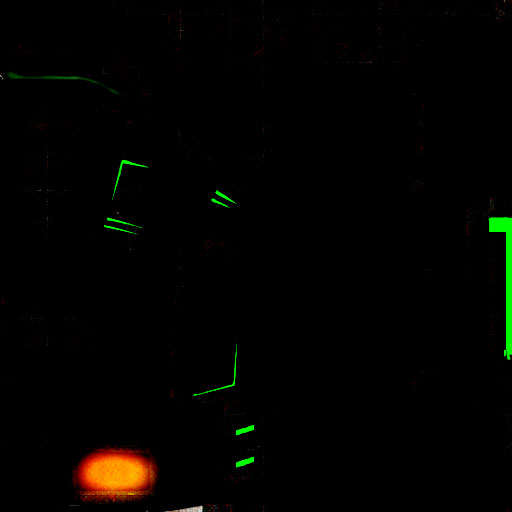
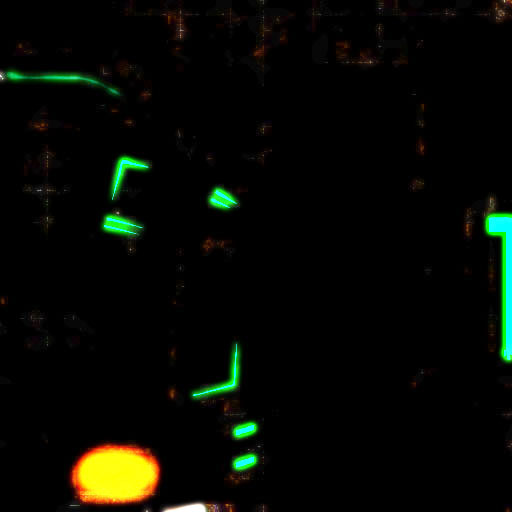
bloom

diff --git a/source/contrib/ArticulatedModel/demo.cpp b/source/contrib/ArticulatedModel/demo.cpp
@@ -60,6 +60,7 @@ protected:
 public:
     SkyRef                      sky;
 
+    LightingParameters          skyParameters;
     LightingRef                 lighting;
 
     Array<EntityRef>            entityArray;
@@ -76,6 +77,9 @@ class Demo : public GApplet {
 private:
 
     void generateShadowMap(const GLight& light, const Array<PosedModelRef>& shadowCaster);
+
+    ShaderRef                   bloomShader, bloomFilterShader;
+    TextureRef                  screenImage, bloomMap;
 
     TextureRef                  shadowMap;
     Matrix4                     lightMVP;
@@ -114,6 +118,78 @@ Demo::Demo(App* _app) : GApplet(_app), app(_app) {
             
     }
 
+    if (GLCaps::supports_GL_EXT_texture_rectangle() && Shader::supportsPixelShaders()) {
+        screenImage = Texture::createEmpty(app->renderDevice->width(), app->renderDevice->height(), 
+            "Copied Screen Image", TextureFormat::RGB8,
+            Texture::CLAMP, Texture::BILINEAR_NO_MIPMAP, Texture::DIM_2D_RECT);
+        bloomMap = Texture::createEmpty(app->renderDevice->width()/10, app->renderDevice->height()/10, 
+            "Bloom map", TextureFormat::RGB8,
+            Texture::CLAMP, Texture::BILINEAR_NO_MIPMAP, Texture::DIM_2D_RECT);
+
+        // Create a filtered, thresholded low-resolution version of an image.
+        bloomFilterShader = Shader::fromStrings("",         
+            STR(
+            uniform sampler2DRect screenImage;
+
+            // Only allows bright pixels to pass
+            vec4 threshold(vec4 v) {
+                const float T = 0.95;
+                return 
+                    ((v.r >= T) ||
+                     (v.g >= T) ||
+                     (v.b >= T)) ? v : vec4(0,0,0,0);
+            }
+
+            void main(void) {
+                // The center pixel
+                vec2 p = gl_TexCoord[0].xy - vec2(1, 1);
+
+                vec4 color = vec4(0,0,0,0);
+
+                // Blur while downsampling
+                for (int dx = -10; dx <= 10; dx += 4) {
+                    for (int dy = -10; dy <= 10; dy += 4) {
+                        color += threshold(texture2DRect(screenImage, p + vec2(dx, dy)));
+                    }
+                }
+
+                gl_FragColor = color / 36.0;
+            }
+            ));
+        bloomFilterShader->args.set("screenImage", screenImage);
+
+        // Combine the bloom map with the screen image
+        bloomShader = Shader::fromStrings("",
+            STR(
+            uniform sampler2DRect screenImage;
+            uniform sampler2DRect bloomMap;
+
+            void main(void) {
+                // The center pixel
+                vec2 p = gl_TexCoord[0].xy;
+        
+                gl_FragColor = 
+                    // Brighten the screen image by 1/0.75, since we darkened the 
+                    // scene when rendering to avoid saturation.
+                    texture2DRect(screenImage, gl_TexCoord[0].xy * 10.0) * 1.34 + 
+
+                    // Add the bloom
+                    (texture2DRect(bloomMap, p) +
+                     (texture2DRect(bloomMap, p + vec2(-2,0)) + 
+                      texture2DRect(bloomMap, p + vec2(2,0))) * 0.5 + 
+                     (texture2DRect(bloomMap, p + vec2(0,-2)) + 
+                      texture2DRect(bloomMap, p + vec2(0,2))) * 0.5 + 
+                     texture2DRect(bloomMap, p + vec2(0,-1)) + 
+                     texture2DRect(bloomMap, p + vec2(-1,0)) + 
+                     texture2DRect(bloomMap, p + vec2(1,0)) + 
+                     texture2DRect(bloomMap, p + vec2(0,1))) / 4.0;
+            }
+            ));
+
+        bloomShader->args.set("screenImage", screenImage);
+        bloomShader->args.set("bloomMap", bloomMap);
+
+    }
 }
 
 
@@ -194,7 +270,9 @@ void Demo::doGraphics() {
 
     // Pose all
     Array<PosedModelRef> posedModels;
+
     for (int e = 0; e < app->entityArray.size(); ++e) {
+        /*
         static RealTime t0 = System::time();
         RealTime t = (System::time() - t0) * 10;
         app->entityArray[e]->pose.cframe.set("m_rotor", 
@@ -203,6 +281,7 @@ void Demo::doGraphics() {
         app->entityArray[e]->pose.cframe.set("t_rotor",
             CoordinateFrame(Matrix3::fromAxisAngle(Vector3::unitX(), t*2),
                             Vector3::zero()));
+                            */
 
         app->entityArray[e]->model->pose(posedModels, app->entityArray[e]->cframe, app->entityArray[e]->pose);
     }
@@ -230,14 +309,13 @@ void Demo::doGraphics() {
     app->renderDevice->setProjectionAndCameraMatrix(app->debugCamera);
     app->renderDevice->setObjectToWorldMatrix(CoordinateFrame());
 
-    LightingParameters lighting(G3D::toSeconds(2, 00, 00, PM));
 
     // Cyan background
     app->renderDevice->setColorClearValue(Color3(.1, .5, 1));
 
     app->renderDevice->clear(app->sky.notNull(), true, true);
     if (app->sky.notNull()) {
-        app->sky->render(lighting);
+        app->sky->render(app->skyParameters);
     }
 
     app->renderDevice->pushState();
@@ -263,9 +341,29 @@ void Demo::doGraphics() {
 
     app->renderDevice->popState();
 
+    // Add bloom
+    if (bloomMap.notNull()) {
+        app->renderDevice->push2D();
+            // Undo renderdevice's 0.35 translation
+            app->renderDevice->setCameraToWorldMatrix(CoordinateFrame(Matrix3::identity(), Vector3(0, 0, 0.0)));
+            Rect2D rect = Rect2D::xywh(0, 0, app->renderDevice->width(), app->renderDevice->height());
+            Rect2D smallRect = Rect2D::xywh(0, 0, bloomMap->texelWidth(), bloomMap->texelHeight());
+            screenImage->copyFromScreen(rect);
+
+            // Shrink and filter
+            app->renderDevice->setShader(bloomFilterShader);
+            Draw::rect2D(smallRect, app->renderDevice, Color3::white(), rect);
+            bloomMap->copyFromScreen(smallRect);
+
+            app->renderDevice->setShader(bloomShader);
+//            app->renderDevice->setShader(NULL);
+//            app->renderDevice->setTexture(0, bloomMap);
+            Draw::rect2D(rect, app->renderDevice, Color3::white(), smallRect);
+        app->renderDevice->pop2D();
+    }
 
     if (app->sky.notNull()) {
-        app->sky->renderLensFlare(lighting);
+        app->sky->renderLensFlare(app->skyParameters);
     }
 
     app->debugPrintf("%s Profile %s\n", toString(ArticulatedModel::profile()),
@@ -309,7 +407,7 @@ void App::main() {
             material.transmit = Color3::black();
             material.specular = Texture::fromFile(path + "specular.jpg");
             material.reflect = Color3::black();
-            material.specularExponent = Color3::white() * 60;
+            material.specularExponent = Color3::white() * 40;
         }
 
         {
@@ -333,10 +431,10 @@ void App::main() {
 
         SuperShader::Material& material = model->partArray[0].triListArray[0].material;
         model->partArray[0].triListArray[0].twoSided = true;
-        material.diffuse = Color3::yellow() * .7;
+        material.diffuse = Color3::yellow() * .5;
         material.transmit = Color3(.5,.3,.3);
         material.reflect = Color3::white() * .1;
-        material.specular = Color3::white() * .8;
+        material.specular = Color3::white() * .7;
         material.specularExponent = Color3::white() * 40;
         model->updateAll();
 
@@ -371,8 +469,8 @@ void App::main() {
         material.diffuse = Color3::fromARGB(0xF28900);
         material.transmit = Color3::black();
         material.reflect = Color3::black();
-        material.specular = Color3::white() * .3;
-        material.specularExponent = Color3::white() * 60;
+        material.specular = Color3::white() * .05;
+        material.specularExponent = Color3::white() * 10;
         model->updateAll();
 
         entityArray.append(Entity::create(model, CoordinateFrame(rot180, Vector3(x,0,0))));
@@ -630,26 +728,35 @@ void App::main() {
 
     lighting = Lighting::create();
     {
-        LightingParameters params(G3D::toSeconds(12, 00, 00, PM));
+        // TODO: move the lightScale processing into doGraphics
+
+        bool useBloom = GLCaps::supports_GL_EXT_texture_rectangle() && Shader::supportsPixelShaders();
+
+        double lightScale = useBloom ? 0.75 : 0;
+
+        skyParameters = LightingParameters(G3D::toSeconds(12, 00, 00, PM));
     
+        skyParameters.skyAmbient = Color3::white() * lightScale;
+        skyParameters.diffuseAmbient *= lightScale;
+
         if (sky.notNull()) {
             //lighting->environmentMap.constant = lighting.skyAmbient;
             lighting->environmentMap = sky->getEnvironmentMap();
-            lighting->environmentMapColor = params.skyAmbient;
+            lighting->environmentMapColor = skyParameters.skyAmbient;
         } else {
             lighting->environmentMapColor = Color3::black();
         }
 
-        lighting->ambientTop = Color3(.7, .7, 1) * params.diffuseAmbient;
-        lighting->ambientBottom = Color3::brown() * params.diffuseAmbient;
+        lighting->ambientTop = Color3(.7, .7, 1) * skyParameters.diffuseAmbient;
+        lighting->ambientBottom = Color3::brown() * skyParameters.diffuseAmbient;
 
         lighting->lightArray.clear();
 
         lighting->shadowedLightArray.clear();
 
-        GLight L = params.directionalLight();
+        GLight L = skyParameters.directionalLight();
         // Decrease the blue since we're adding blue ambient
-        L.color *= Color3(1.2, 1.2, 1);
+        L.color *= Color3(1.2, 1.2, 1) * lightScale;
         L.position = Vector4(Vector3(0,1,1).direction(), 0);
 
         lighting->shadowedLightArray.append(L);
